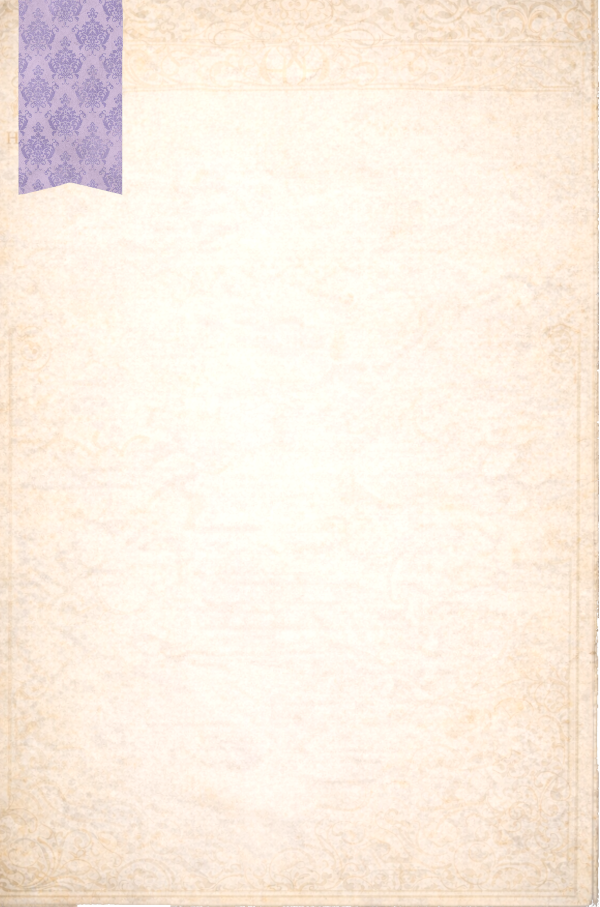
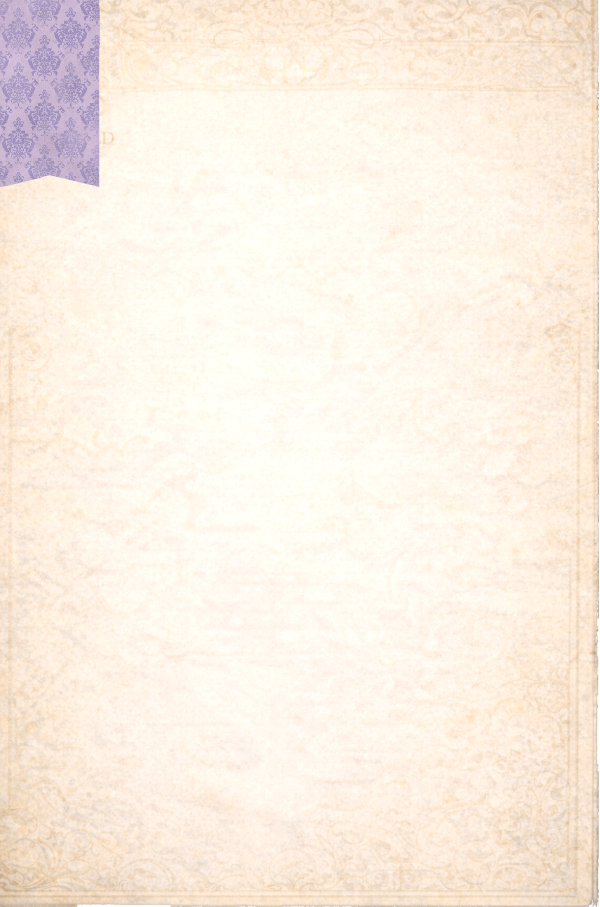
add overflow to the actor sheet and fix roll logic

Changed region(s): [[0.0, 0.0, 0.21, 0.2161]]

diff --git a/templates/chat/parts/dice/faces.html b/templates/chat/parts/dice/faces.html
@@ -1,22 +1,15 @@
 {{#when  face 'eq' 0}}
 <div class="dice-face">
-  <!--span class="dot dot-{{success}}"-->
     <img src="systems/household/assets/dice/cancel.png" data-poll_difficulty="{{poll_difficulty}}" data-currentpoll="{{currentpoll}}" data-face="{{face}}" data-lock="{{locked}}"/>
-  <!--/span-->
 </div>
 {{/when}}
 
 {{#when  face 'gt' 0}}
 <div class="dice-face {{give_up}}" data-ability="{{ability}}" data-field="{{field}}" data-poll_difficulty="{{poll_difficulty}}" data-currentpoll="{{currentpoll}}" data-face="{{face}}" data-lock="{{locked}}">
-    <!--span class="dot dot-{{success}}" 
-      data-poll_difficulty="{{poll_difficulty}}" data-currentpoll="{{currentpoll}}" data-face="{{face}}" data-lock="{{locked}}">
-    </span-->
-    <!--span class="dot dot-{{success}}"-->
     {{#when  face 'gt' 6}}
       <span class="dice-face-other" >{{face}}</span>
     {{else}}
       <img class="dice-face" src="systems/household/assets/dice/face_{{face}}.png" data-poll_difficulty="{{poll_difficulty}}" data-currentpoll="{{currentpoll}}" data-face="{{face}}" data-lock="{{locked}}"/>
       {{/when}}
-    <!--/span-->
   </div>
 {{/when}}

diff --git a/src/scss/global/_grid.scss b/src/scss/global/_grid.scss
@@ -4,8 +4,8 @@
   display: grid;
   grid-column: span 2 / span 2;
   grid-template-columns: repeat(2, minmax(0, 1fr));
-  gap: 10px;
-  margin: 10px 0;
+  gap: 5px;
+  margin: 5px 0;
   padding: 0;
 }
 

diff --git a/src/scss/global/_window.scss b/src/scss/global/_window.scss
@@ -19,3 +19,7 @@
 .input-hidden {
   display: none;
 }
+
+.tab {
+  overflow: auto;
+}